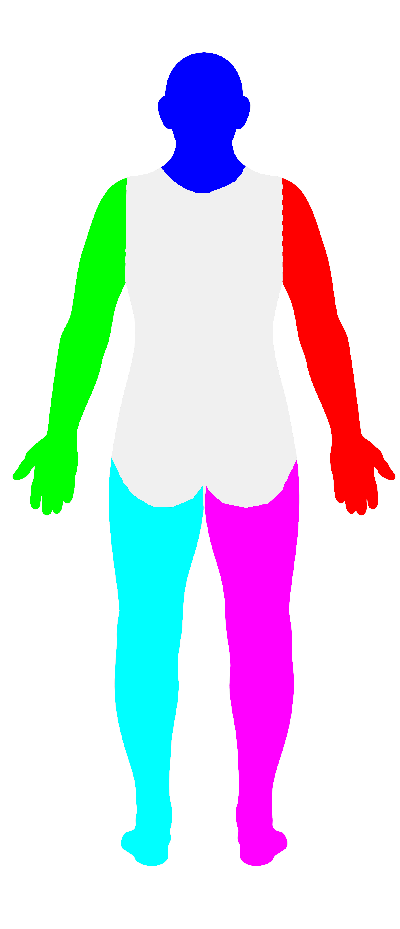
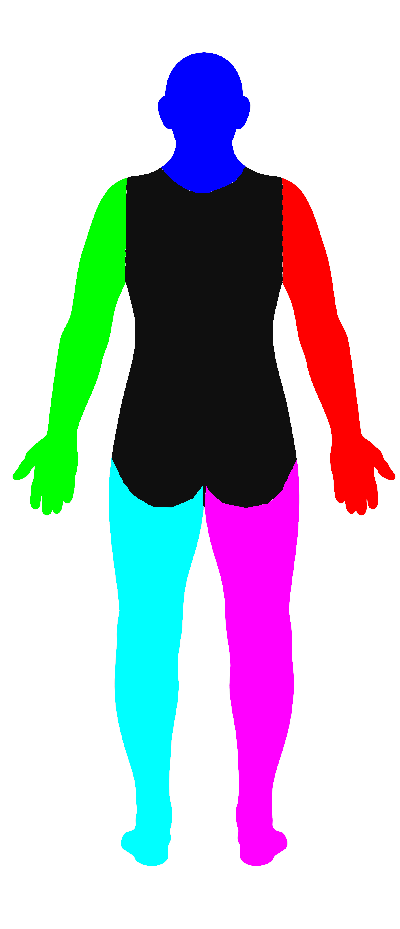
Display burn assessment results and separate stroke tracking by body view

Changed region(s): [[0.27, 0.1561, 0.75, 0.5619]]

diff --git a/app/src/main/java/com/example/burnmeter/ui/DrawingViewModel.kt b/app/src/main/java/com/example/burnmeter/ui/DrawingViewModel.kt
@@ -1,18 +1,19 @@
 package com.example.burnmeter.ui
 
-import androidx.compose.ui.geometry.Offset
+import android.util.Log
 import androidx.lifecycle.ViewModel
 import androidx.lifecycle.viewModelScope
 import com.example.burnmeter.domain.analyzer.BurnFractionAnalyzer
 import com.example.burnmeter.domain.models.BodyView
-import com.example.burnmeter.domain.models.DrawingPoint
+import com.example.burnmeter.domain.models.BurnAssessmentResult
 import com.example.burnmeter.domain.models.DrawingStroke
-import com.example.burnmeter.domain.models.Region
 import dagger.hilt.android.lifecycle.HiltViewModel
+import kotlinx.coroutines.ExperimentalCoroutinesApi
 import kotlinx.coroutines.flow.MutableStateFlow
 import kotlinx.coroutines.flow.SharingStarted
 import kotlinx.coroutines.flow.asStateFlow
-import kotlinx.coroutines.flow.combine
+import kotlinx.coroutines.flow.flatMapLatest
+import kotlinx.coroutines.flow.map
 import kotlinx.coroutines.flow.stateIn
 import kotlinx.coroutines.flow.update
 import kotlinx.coroutines.launch
@@ -22,21 +23,38 @@ import javax.inject.Inject
 class DrawingViewModel @Inject constructor(
     private val burnFractionAnalyzer: BurnFractionAnalyzer
 ) : ViewModel() {
-    private val _strokes = MutableStateFlow<List<DrawingStroke>>(emptyList())
-    private val _activeStrokePoints = MutableStateFlow<List<DrawingPoint>>(emptyList())
-    val strokes = combine(_strokes, _activeStrokePoints) { strokes, activeStrokePoints ->
-        strokes + DrawingStroke(activeStrokePoints)
+    private var bitmapWidth: Int? = null
+    private var bitmapHeight: Int? = null
+
+    private val _currentBodyView = MutableStateFlow(BodyView.FRONT)
+    val currentBodyView = _currentBodyView.asStateFlow()
+
+    private val _frontStrokes = MutableStateFlow<List<DrawingStroke>>(emptyList())
+    private val _backStrokes = MutableStateFlow<List<DrawingStroke>>(emptyList())
+
+    @OptIn(ExperimentalCoroutinesApi::class)
+    val strokes = _currentBodyView.flatMapLatest {
+        when (it) {
+            BodyView.FRONT -> _frontStrokes
+            BodyView.BACK -> _backStrokes
+        }
     }.stateIn(
         viewModelScope,
         SharingStarted.WhileSubscribed(5000),
         emptyList()
     )
 
-    private val _currentBodyView = MutableStateFlow<BodyView>(BodyView.FRONT)
-    val currentBodyView = _currentBodyView.asStateFlow()
 
-    private var bitmapWidth: Int? = null
-    private var bitmapHeight: Int? = null
+    private val _assessmentResult = MutableStateFlow(emptyMap<BodyView, BurnAssessmentResult>())
+    val assessmentResult = _assessmentResult.map {
+        it.values.fold(BurnAssessmentResult(emptyMap())) { acc, result -> acc + result }
+    }
+        .stateIn(
+            viewModelScope,
+            SharingStarted.Eagerly,
+            BurnAssessmentResult(emptyMap())
+        )
+
 
     fun onBitmapLoaded(width: Int, height: Int) {
         bitmapWidth = width
@@ -47,29 +65,20 @@ class DrawingViewModel @Inject constructor(
         _currentBodyView.value = bodyView
     }
 
-    fun onStartStroke(coordinates: Offset) {
-        _activeStrokePoints.value = listOf(DrawingPoint(coordinates))
-    }
-
-    fun onExtendStroke(coordinates: Offset) {
-        _activeStrokePoints.update {
-            it + DrawingPoint(coordinates)
+    fun onAddStroke(newStroke: DrawingStroke) {
+        val currentStrokes = when (_currentBodyView.value) {
+            BodyView.FRONT -> _frontStrokes
+            BodyView.BACK -> _backStrokes
         }
-    }
-
-    fun onEndStroke() {
-        if (_activeStrokePoints.value.isNotEmpty()) {
-            _strokes.update {
-                it + DrawingStroke(_activeStrokePoints.value)
-            }
+        currentStrokes.update {
+            it + newStroke
         }
-        _activeStrokePoints.value = emptyList()
         calculateBurnFraction()
     }
 
     fun calculateBurnFraction() {
-        val width= bitmapWidth?: return
-        val height = bitmapHeight?: return
+        val width = bitmapWidth ?: return
+        val height = bitmapHeight ?: return
 
         viewModelScope.launch {
             try {
@@ -79,9 +88,9 @@ class DrawingViewModel @Inject constructor(
                     height,
                     _currentBodyView.value
                 )
-                println(result.map { Region.entries.first { region -> region.id == it.key }.name to it.value })
-            } catch (_: Exception) {
-
+                _assessmentResult.value += (_currentBodyView.value to BurnAssessmentResult(result))
+            } catch (e: Exception) {
+                Log.e("DrawingViewModel", "Error calculating burn fraction $e")
             }
         }
     }

diff --git a/app/src/main/java/com/example/burnmeter/ui/BodySurfaceAreaDrawingCanvas.kt b/app/src/main/java/com/example/burnmeter/ui/BodySurfaceAreaDrawingCanvas.kt
@@ -5,6 +5,7 @@ import androidx.compose.foundation.Canvas
 import androidx.compose.foundation.gestures.detectDragGestures
 import androidx.compose.runtime.Composable
 import androidx.compose.runtime.LaunchedEffect
+import androidx.compose.runtime.mutableStateListOf
 import androidx.compose.runtime.remember
 import androidx.compose.ui.Modifier
 import androidx.compose.ui.geometry.Offset
@@ -20,6 +21,7 @@ import androidx.compose.ui.input.pointer.pointerInput
 import androidx.compose.ui.res.imageResource
 import androidx.compose.ui.unit.toSize
 import com.example.burnmeter.domain.models.BodyView
+import com.example.burnmeter.domain.models.DrawingPoint
 import com.example.burnmeter.domain.models.DrawingStroke
 import com.example.burnmeter.drawing.CanvasRenderer
 import com.example.burnmeter.drawing.DrawingPaintFactory
@@ -30,14 +32,13 @@ import com.example.burnmeter.drawing.calculateImageCoordinates
 fun BodySurfaceAreaDrawingCanvas(
     @DrawableRes image: Int,
     strokes: List<DrawingStroke>,
-    onAddStroke: (Offset) -> Unit,
-    onExtendStroke: (Offset) -> Unit,
-    onEndStroke: () -> Unit,
+    onAddStroke: (DrawingStroke) -> Unit,
     onBitmapLoaded: (Int, Int) -> Unit,
     modifier: Modifier = Modifier,
 ) {
     val renderer = remember { CanvasRenderer(DrawingPaintFactory()) }
     val imageBitmap = ImageBitmap.imageResource(image)
+    val activeStrokePoints = remember { mutableStateListOf<DrawingPoint>() }
 
     LaunchedEffect(imageBitmap) {
         onBitmapLoaded(imageBitmap.width, imageBitmap.height)
@@ -56,7 +57,7 @@ fun BodySurfaceAreaDrawingCanvas(
                             Size(imageBitmap.width.toFloat(), imageBitmap.height.toFloat()),
                             it
                         )
-                        onAddStroke(imageCoordinates)
+                        activeStrokePoints.add(DrawingPoint(imageCoordinates))
                     },
                     onDrag = { change, _ ->
                         val imageCoordinates = calculateImageCoordinates(
@@ -64,10 +65,11 @@ fun BodySurfaceAreaDrawingCanvas(
                             Size(imageBitmap.width.toFloat(), imageBitmap.height.toFloat()),
                             change.position
                         )
-                        onExtendStroke(imageCoordinates)
+                        activeStrokePoints.add(DrawingPoint(imageCoordinates))
                     },
                     onDragEnd = {
-                        onEndStroke()
+                        onAddStroke(DrawingStroke(activeStrokePoints.toList()))
+                        activeStrokePoints.clear()
                     }
                 )
             }
@@ -83,7 +85,7 @@ fun BodySurfaceAreaDrawingCanvas(
                 clipRect(0f, 0f, imageBitmap.width.toFloat(), imageBitmap.height.toFloat()) {
                     drawImage(imageBitmap)
                     with(renderer) {
-                        drawStrokes(strokes)
+                        drawStrokes(strokes + DrawingStroke(activeStrokePoints.toList()))
                     }
                     drawImage(
                         imageBitmap,

diff --git a/app/src/main/java/com/example/burnmeter/MainActivity.kt b/app/src/main/java/com/example/burnmeter/MainActivity.kt
@@ -4,24 +4,29 @@ import android.os.Bundle
 import androidx.activity.ComponentActivity
 import androidx.activity.compose.setContent
 import androidx.activity.enableEdgeToEdge
+import androidx.compose.foundation.border
 import androidx.compose.foundation.layout.Column
+import androidx.compose.foundation.layout.Row
 import androidx.compose.foundation.layout.Spacer
+import androidx.compose.foundation.layout.fillMaxHeight
 import androidx.compose.foundation.layout.height
 import androidx.compose.foundation.layout.safeDrawingPadding
-import androidx.compose.foundation.layout.size
+import androidx.compose.foundation.layout.width
+import androidx.compose.material3.Text
 import androidx.compose.runtime.Composable
 import androidx.compose.runtime.getValue
 import androidx.compose.ui.Modifier
+import androidx.compose.ui.graphics.Color
 import androidx.compose.ui.unit.dp
 import androidx.lifecycle.compose.collectAsStateWithLifecycle
 import androidx.lifecycle.viewmodel.compose.viewModel
 import com.example.burnmeter.domain.models.BodyView
+import com.example.burnmeter.domain.models.getRegionById
 import com.example.burnmeter.ui.BodySurfaceAreaDrawingCanvas
 import com.example.burnmeter.ui.BodyViewSelector
 import com.example.burnmeter.ui.DrawingViewModel
 import com.example.burnmeter.ui.theme.AppTheme
 import dagger.hilt.android.AndroidEntryPoint
-import java.nio.file.WatchEvent
 
 @AndroidEntryPoint
 class MainActivity : ComponentActivity() {
@@ -45,6 +50,7 @@ fun App() {
         BodyView.FRONT -> R.drawable.front
         BodyView.BACK -> R.drawable.back
     }
+    val assessmentResult by viewModel.assessmentResult.collectAsStateWithLifecycle()
 
     Column(
         modifier = Modifier.safeDrawingPadding()
@@ -54,14 +60,23 @@ fun App() {
             onBodyViewSelected = viewModel::updateBodyView,
         )
         Spacer(modifier = Modifier.height(16.dp))
-        BodySurfaceAreaDrawingCanvas(
-            image = imageRes,
-            strokes = strokes,
-            onAddStroke = viewModel::onStartStroke,
-            onExtendStroke = viewModel::onExtendStroke,
-            onEndStroke = viewModel::onEndStroke,
-            onBitmapLoaded = viewModel::onBitmapLoaded,
-            modifier = Modifier.size(800.dp)
-        )
+        Row() {
+            BodySurfaceAreaDrawingCanvas(
+                image = imageRes,
+                strokes = strokes,
+                onAddStroke = viewModel::onAddStroke,
+                onBitmapLoaded = viewModel::onBitmapLoaded,
+                modifier = Modifier
+                    .border(1.dp, Color.Red)
+                    .weight(1f)
+                    .fillMaxHeight()
+            )
+            Spacer(modifier = Modifier.width(16.dp))
+            Column() {
+                assessmentResult.result.forEach { (regionId, fraction) ->
+                    Text(getRegionById(regionId).displayText + ": %.2f".format(fraction))
+                }
+            }
+        }
     }
 }

diff --git a/app/src/main/java/com/example/burnmeter/domain/models/Region.kt b/app/src/main/java/com/example/burnmeter/domain/models/Region.kt
@@ -1,12 +1,34 @@
 package com.example.burnmeter.domain.models
 
-enum class Region(val id: Byte, val displayText: String) {
-    HEAD_AND_NECK(1, "Head & Neck"),
-    RIGHT_ARM(2, "Right Arm"),
-    LEFT_ARM(3, "Left Arm"),
-    RIGHT_LEG(4, "Right Leg"),
-    LEFT_LEG(5, "Left Leg"),
-    ANTERIOR_TRUNK(6, "Anterior Trunk"),
-    POSTERIOR_TRUNK(7, "Posterior Trunk"),
-    PERINEUM(8, "Perineum"),
+import com.example.burnmeter.domain.models.Region.ANTERIOR_TRUNK
+import com.example.burnmeter.domain.models.Region.HEAD_AND_NECK
+import com.example.burnmeter.domain.models.Region.LEFT_ARM
+import com.example.burnmeter.domain.models.Region.LEFT_LEG
+import com.example.burnmeter.domain.models.Region.PERINEUM
+import com.example.burnmeter.domain.models.Region.POSTERIOR_TRUNK
+import com.example.burnmeter.domain.models.Region.RIGHT_ARM
+import com.example.burnmeter.domain.models.Region.RIGHT_LEG
+
+enum class Region(val id: Byte, val displayText: String, val percentage: Int) {
+    HEAD_AND_NECK(1, "Head & Neck", 9),
+    RIGHT_ARM(2, "Right Arm", 9),
+    LEFT_ARM(3, "Left Arm", 9),
+    RIGHT_LEG(4, "Right Leg", 18),
+    LEFT_LEG(5, "Left Leg", 18),
+    ANTERIOR_TRUNK(6, "Anterior Trunk", 18),
+    POSTERIOR_TRUNK(7, "Posterior Trunk", 18),
+    PERINEUM(8, "Perineum", 1)
+}
+
+fun getRegionById(id: Byte): Region {
+    return when(id) {
+        1.toByte() -> HEAD_AND_NECK
+        2.toByte() -> RIGHT_ARM
+        3.toByte() -> LEFT_ARM
+        4.toByte() -> RIGHT_LEG
+        5.toByte() -> LEFT_LEG
+        6.toByte() -> ANTERIOR_TRUNK
+        7.toByte() -> POSTERIOR_TRUNK
+        else -> PERINEUM
+    }
 }

diff --git a/app/src/main/java/com/example/burnmeter/domain/models/MaskPalette.kt b/app/src/main/java/com/example/burnmeter/domain/models/MaskPalette.kt
@@ -10,7 +10,8 @@ fun maskPalette(
     leftArm: Int,
     rightLeg: Int,
     leftLeg: Int,
-    trunk: Int,
+    anteriorTrunk: Int,
+    posteriorTrunk: Int,
     perineum: Int,
 ): MaskPalette {
     return MaskPalette(
@@ -20,7 +21,8 @@ fun maskPalette(
             leftArm to Region.LEFT_ARM.id,
             rightLeg to Region.RIGHT_LEG.id,
             leftLeg to Region.LEFT_LEG.id,
-            trunk to Region.ANTERIOR_TRUNK.id,
+            anteriorTrunk to Region.ANTERIOR_TRUNK.id,
+            posteriorTrunk to Region.POSTERIOR_TRUNK.id,
             perineum to Region.PERINEUM.id,
         )
     )

diff --git a/app/src/main/java/com/example/burnmeter/domain/models/BurnAssessmentResult.kt b/app/src/main/java/com/example/burnmeter/domain/models/BurnAssessmentResult.kt
@@ -1,0 +1,17 @@
+package com.example.burnmeter.domain.models
+
+data class BurnAssessmentResult(
+    val result: Map<Byte, Float>,
+) {
+    operator fun plus(other: BurnAssessmentResult): BurnAssessmentResult {
+        val newResult = mutableMapOf<Byte, Float>()
+        newResult.putAll(result)
+
+        for ((key, value) in other.result) {
+            newResult[key] = (newResult.getOrDefault(key, 0f) + value)
+        }
+        return BurnAssessmentResult(newResult)
+    }
+}
+
+

diff --git a/app/src/test/java/com/example/burnmeter/data/mask/RegionMaskLoaderTest.kt b/app/src/test/java/com/example/burnmeter/data/mask/RegionMaskLoaderTest.kt
@@ -26,6 +26,7 @@ class RegionMaskLoaderTest {
             Color.Magenta.toArgb(),
             Color.Cyan.toArgb(),
             0xFFF0F0F0.toInt(),
+            0xFF0F0F0F.toInt(),
             Color.Yellow.toArgb(),
         )
         val loader = RegionMaskLoader(context, palette)

diff --git a/app/src/main/java/com/example/burnmeter/di/MaskPaletteModule.kt b/app/src/main/java/com/example/burnmeter/di/MaskPaletteModule.kt
@@ -23,6 +23,7 @@ object PaletteModule {
         Color.Magenta.toArgb(),
         Color.Cyan.toArgb(),
         0xFFF0F0F0.toInt(),
+        0xFF0F0F0F.toInt(),
         Color.Yellow.toArgb(),
     )
 }
